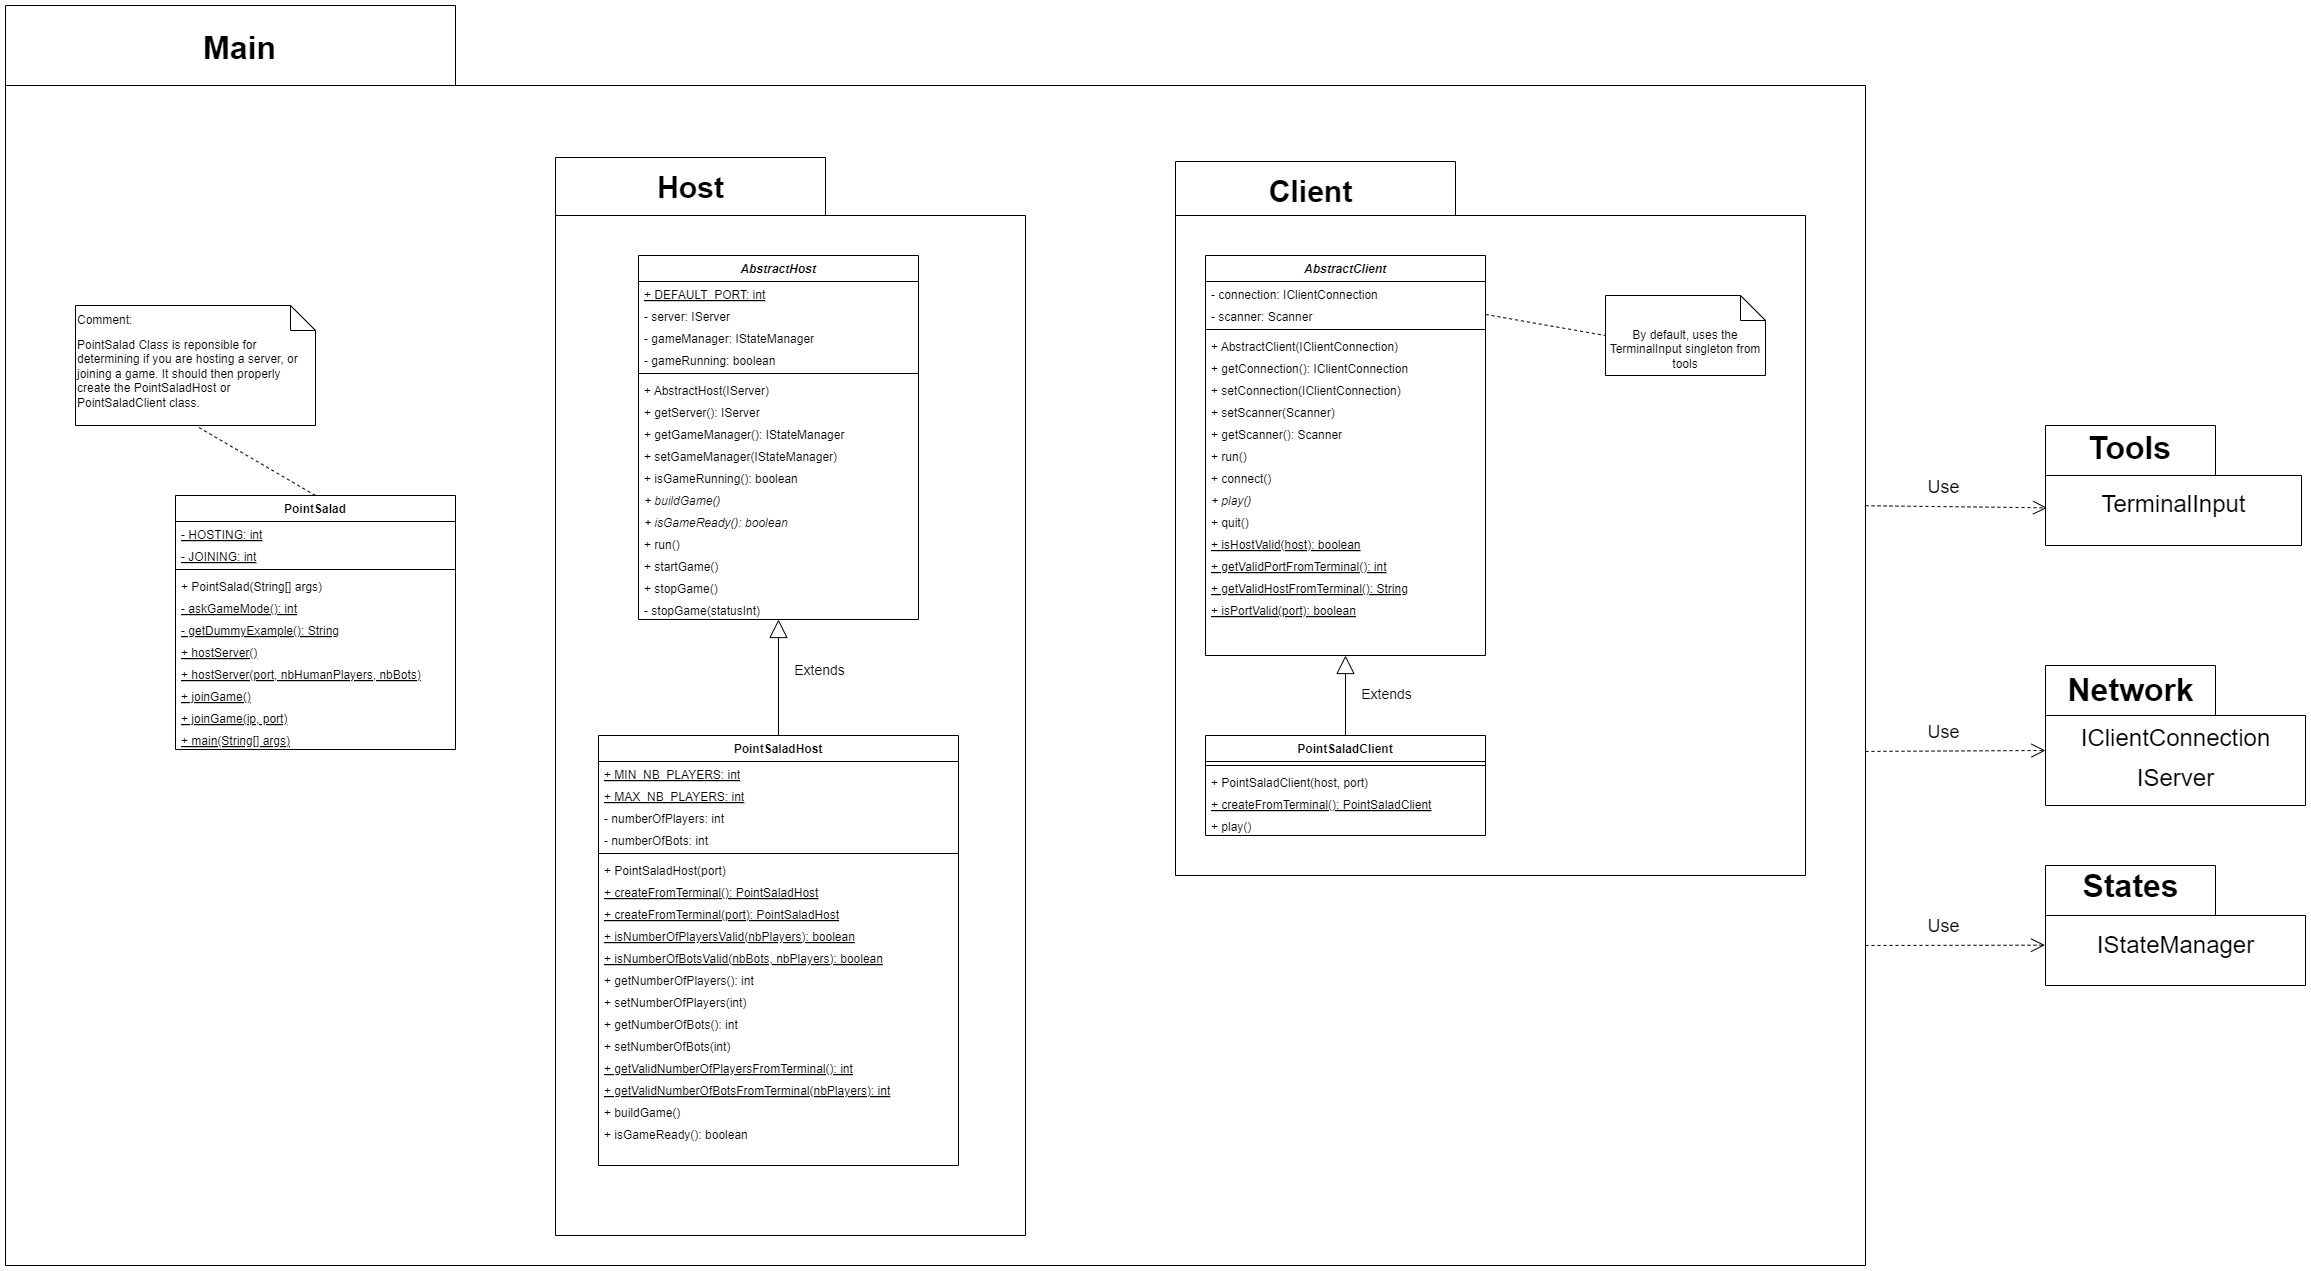
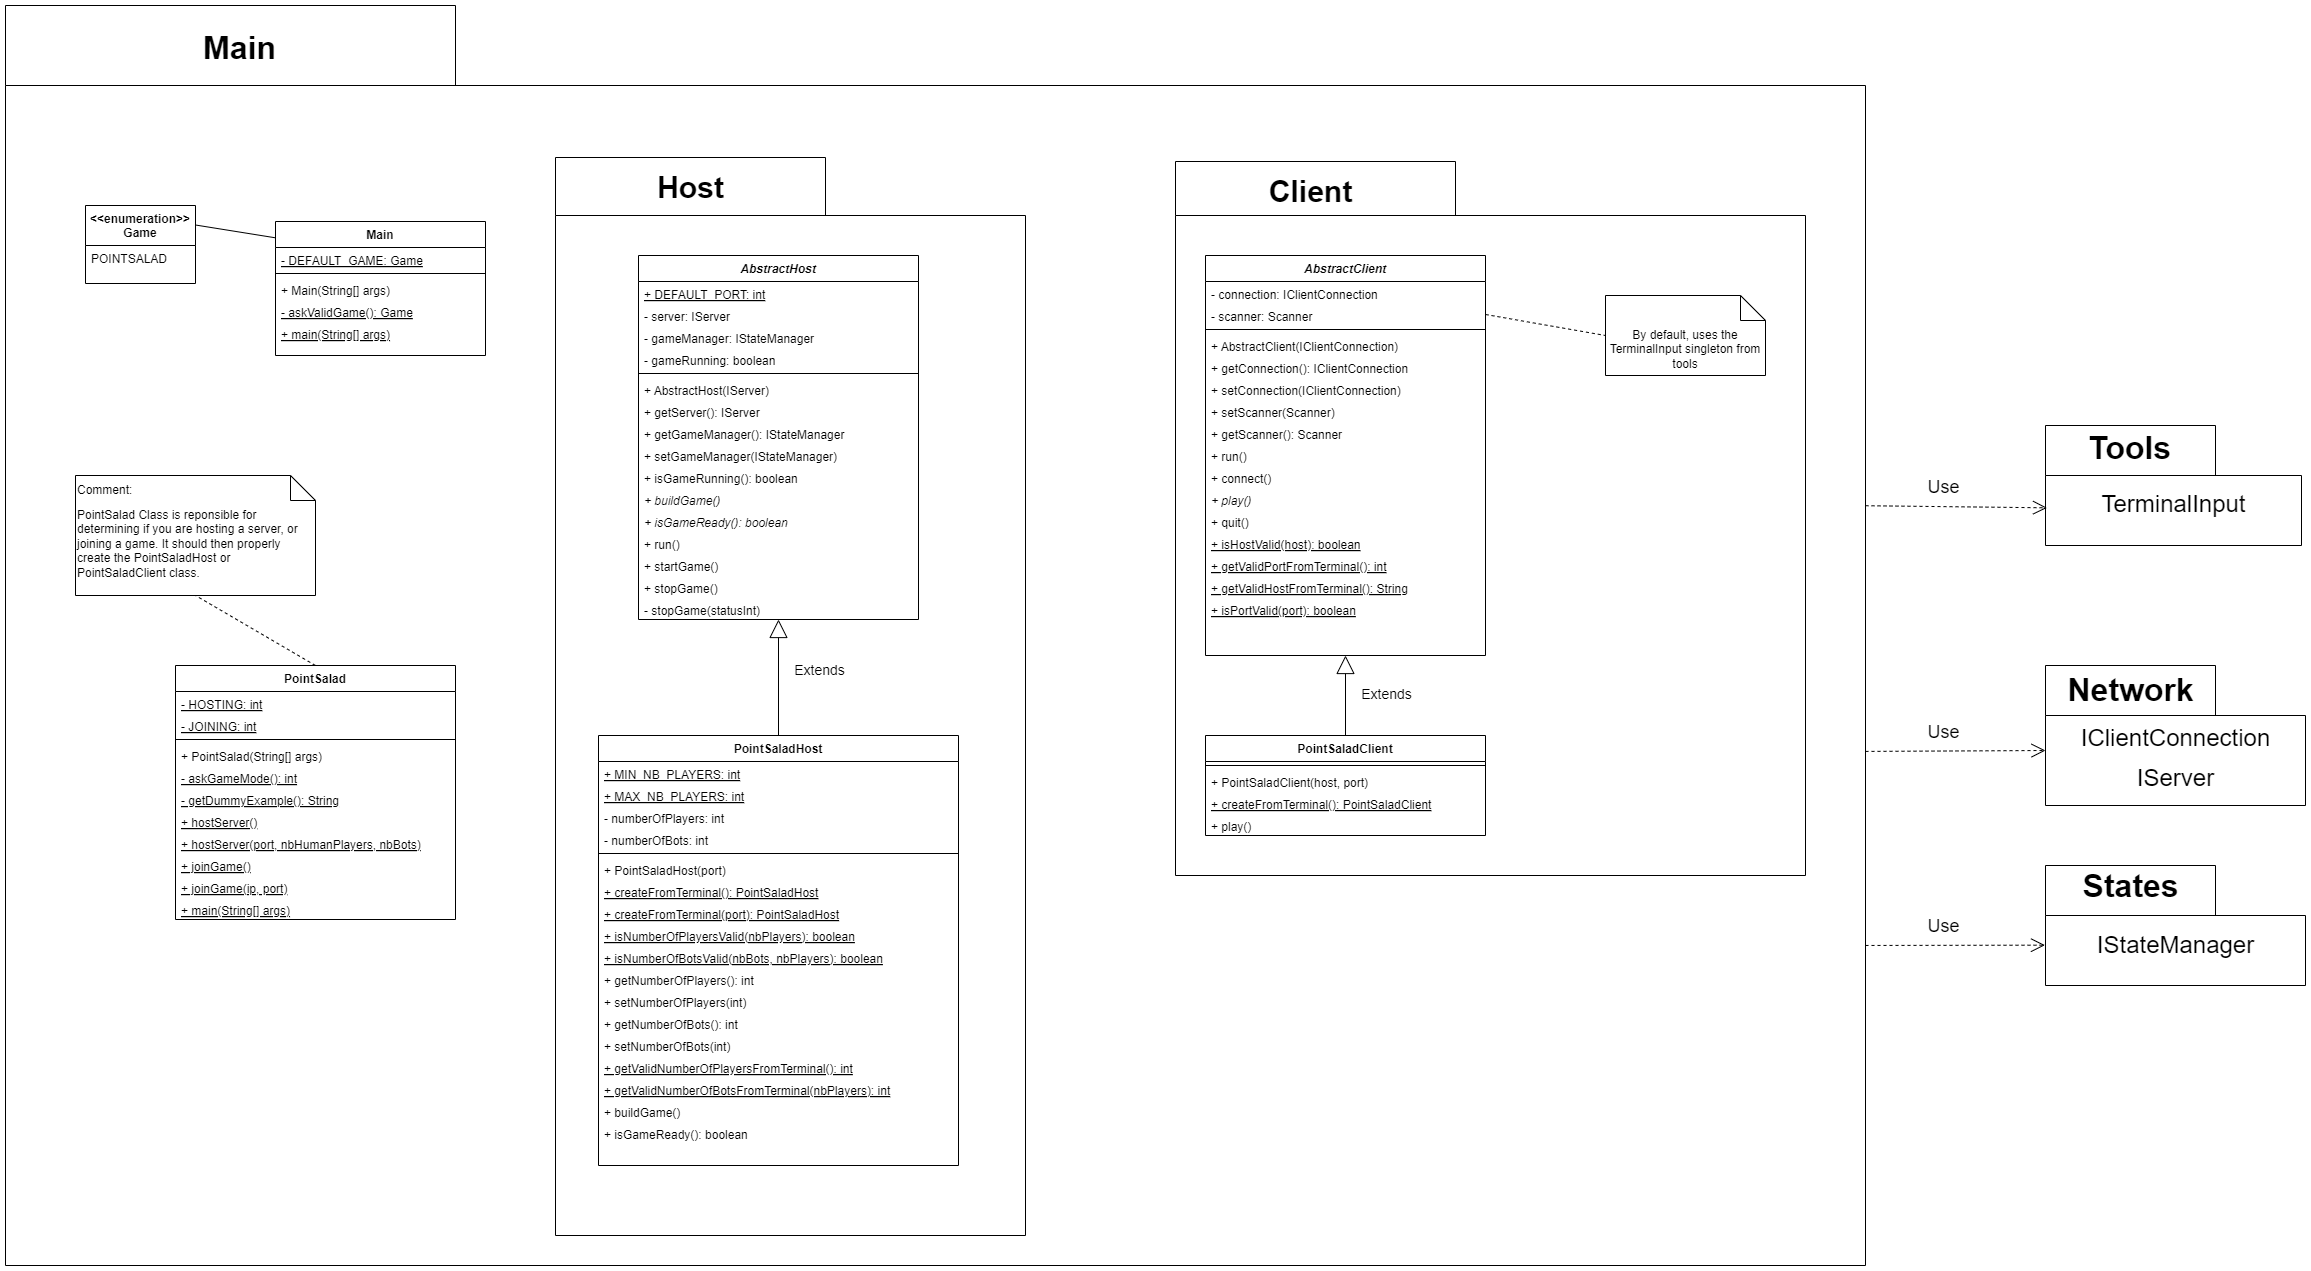
Add real main class

diff --git a/src/main/java/main/Main.java b/src/main/java/main/Main.java
@@ -1,0 +1,98 @@
+package main;
+
+import exceptions.ConfigException;
+import tools.Config;
+import tools.TerminalInput;
+
+/**
+ * Main class to run the user wanted game.
+ */
+public class Main {
+
+	private final static Game DEFAULT_GAME;
+
+	enum Game {
+		POINTSALAD,
+	}
+
+	static {
+		// Initialize the default game from the Config.
+		Game byDefault = Game.POINTSALAD;
+
+		try {
+			Config config = Config.getInstance();
+			byDefault = Game.valueOf(config.getString("defaultGame").toUpperCase());
+		} catch (ConfigException e) {
+			e.printStackTrace();
+			// Use default value if configuration loading fails
+		}
+
+		DEFAULT_GAME = byDefault;
+	}
+	
+	public Main(String[] args) throws Exception {
+		Game selectedGame = null;
+		if (args.length == 0) {
+			selectedGame = askValidGame();
+		} else {
+			try {
+				selectedGame = Game.valueOf(args[0].toUpperCase());
+			} catch (IllegalArgumentException e) {
+				System.out.println("Invalid game. Please try again.");
+				selectedGame = askValidGame();
+			}
+		}
+
+		String[] newArgs = new String[0];
+		if (args.length > 1) {
+			newArgs = new String[args.length - 1];
+			System.arraycopy(args, 1, newArgs, 0, args.length - 1);
+		}
+		
+		switch (selectedGame) {
+			case POINTSALAD:
+				new PointSalad(args);
+				break;
+			
+			// Other cases to be added here for other games
+			
+			default:
+				System.out.println("Invalid game.");
+				break;
+		}
+	}
+
+	private Game askValidGame() {
+		boolean valid = false;
+		Game selectedGame = null;
+
+		while (!valid) {
+			System.out.println("Please choose the game between the following: (it is case unsensitive)");
+			for (Game game : Game.values()) {
+				System.out.println(" - " + game);
+			}
+			System.out.println("You can skip this by pressing [Enter] without typing anything to run the default game (" +
+			DEFAULT_GAME + ").");
+
+			String input = TerminalInput.nextLine();
+
+			if (input.isEmpty()) {
+				selectedGame = DEFAULT_GAME;
+				valid = true;
+			} else {
+				try {
+					selectedGame = Game.valueOf(input.toUpperCase());
+					valid = true;
+				} catch (IllegalArgumentException e) {
+					System.out.println("Invalid game. Please try again.");
+				}
+			}
+		}
+
+		return selectedGame;
+	}
+
+	public static void main(String[] args) throws Exception {
+		new Main(args);
+	}
+}

diff --git a/src/main/java/main/PointSalad.java b/src/main/java/main/PointSalad.java
@@ -106,7 +106,7 @@ public class PointSalad {
 	}
 
 	/**
-	 * Asks the user to select a game mode.
+	 * Asks the user to select whether it is hosting or joining a game.
 	 * 
 	 * @return The selected game mode
 	 */

diff --git a/README.md b/README.md
@@ -1,7 +1,9 @@
 # PointSalad
-Home Exam of the Software Engineering course at LTU
+This is the Home Exam 2024 of the Software Engineering course at LTU.
 
 ## Maven to compile, run, test and clean
+
+The project is built using **Apache Maven**.
 
 **Commands**:
 - `mvn compile`: To compile the source code of the project in the `target/` folder
@@ -14,3 +16,53 @@ Additionally, you can run these commands:
 - `mvn package`: To package the compiled code in a jar file. It goes through `compile` and `test` first. The resulting `.jar` file is located in the `target/` directory.
 
 Passing arguments through the command line is not supported on my machine. `mvn exec:java -Dexec.mainClass="main.PointSalad" -Dexec.args="arg1 arg2 ..."` should be the right way to do it but it does not work.
+
+## Guide to modify the code
+
+If one would like to modify the PointSalad game.
+
+They may first look at the config file, where some options are already customizable.
+
+If they want to modify the way the network is handled, they should add a two new classes, implementing **IClientConnection** and **IServer**, similarly to the existing classes **ClientConnection** and **Server**. They should then update the **PointSaladClient** and **PointSaladHost** classes or create their own to use this new Network.
+
+## Guide to extend the code
+
+If one wants to add a new game mode, such as PointCity, they shall implement some new classes to do so.
+
+1. Creating new cards
+
+First, they should add their new Card class, which should implements the **ICard** interface. They should as well create their own CardFactory class which should implements the **ICardFactory** interface.
+
+2. Creating new criterion for scoring
+
+Then, may want to add their own criterion objects, either on cards or somewhere else. To do so, they should implement the **ICrietrion** interface, and create a factory to create the corresponding objects from a String representation. It should implement the **ICriterionFactory** interface.
+
+3. Creating a new market
+
+A new market may be created. It only requires to implements the **IMarket** interface.
+
+4. Creating a new Scorer
+
+Similarly, a new scorer can easily be added, as long as it implements the **IScorer** interface. It may want to delegate the work to the Criterion object.
+
+5. Creating new phases
+
+They should define new phases to the game. All of them should implement **IPhase** and have the logic to process the current state of the game, and get the next phase following this one. Since they are specific to this game, they may do assumptions or checks on the actual classes of the current **State** objects attributes.
+
+6. Players
+
+If one need to implement a new type of player, it should at least be extending the **AbstractPlayer** class. It can also extends the already implemented **HumanPlayer** and **IAPlayer** classes.
+
+7. States
+
+If one need to implement a new state object, they can do so by extending the already implementing **State**. This one should be enough complete to be generic though, at least according to the possible future extensions. The **StateManager** object is generic and should not have to be modified.
+
+8. Adding the main game
+
+Finally, to make the game playable, one would have to code the main class to launch the game (i.e. similar to the **PointSalad** class), which should most probably create the corresponding host or client object, respectively extending from the **AbstractHost** and **AbstractClient** classes. And they should then add the correct case to the **Main** class, in its constructor.
+
+## Guide to add new tests
+
+To create new tests, one must respect the folder hierarchy and place their new testing class in the `src/test/` directory. If they are testing resources, they should add it in the `resources/` directory, else in the `java/` directory.
+
+In order for their testing class to be correctly detected as a testing class, and therefore actually be tested with the `mvn test` command, one **must** name their testing class following this convention: `<Name>Test`. The class' name **must** finish by the **'Test'** keyword. For instance, `PointSaladDefaultBotLogicTest` is the name of the testing class for the default bot logic of the PointSalad game.
